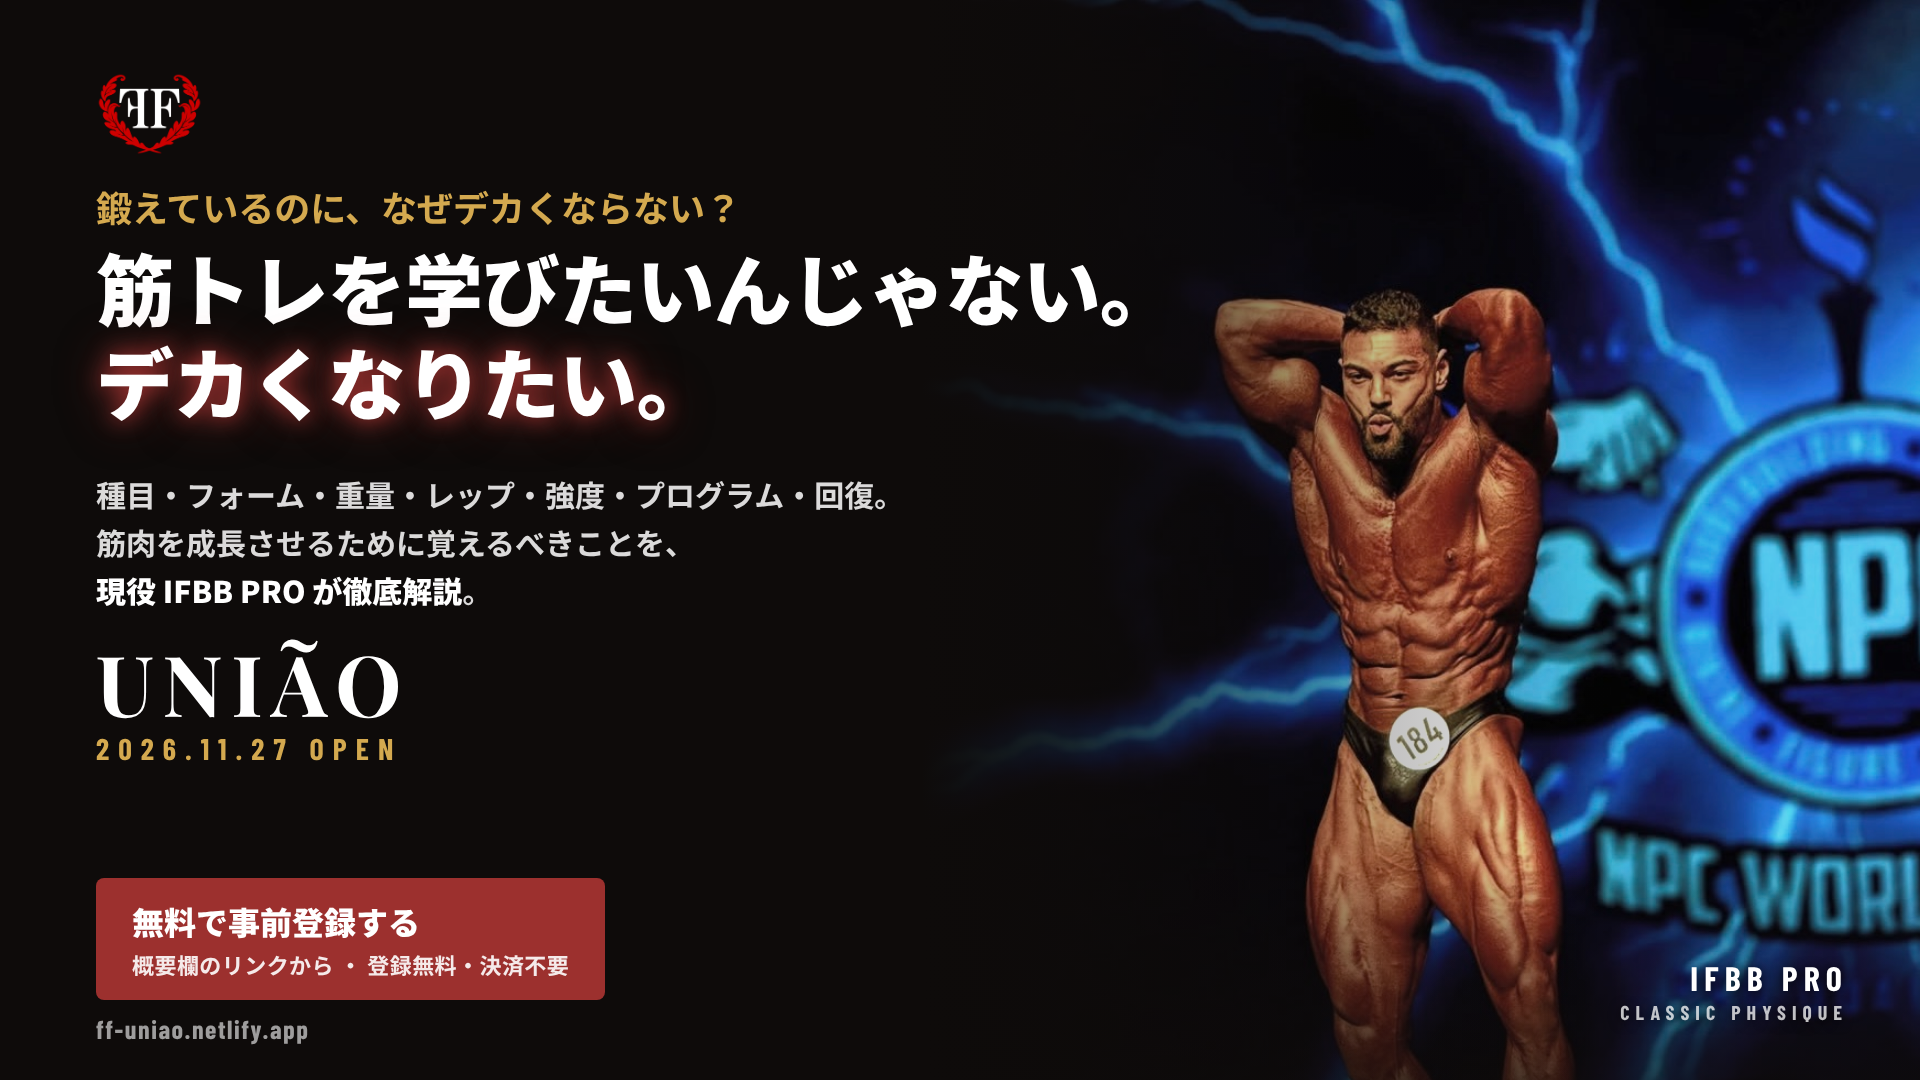
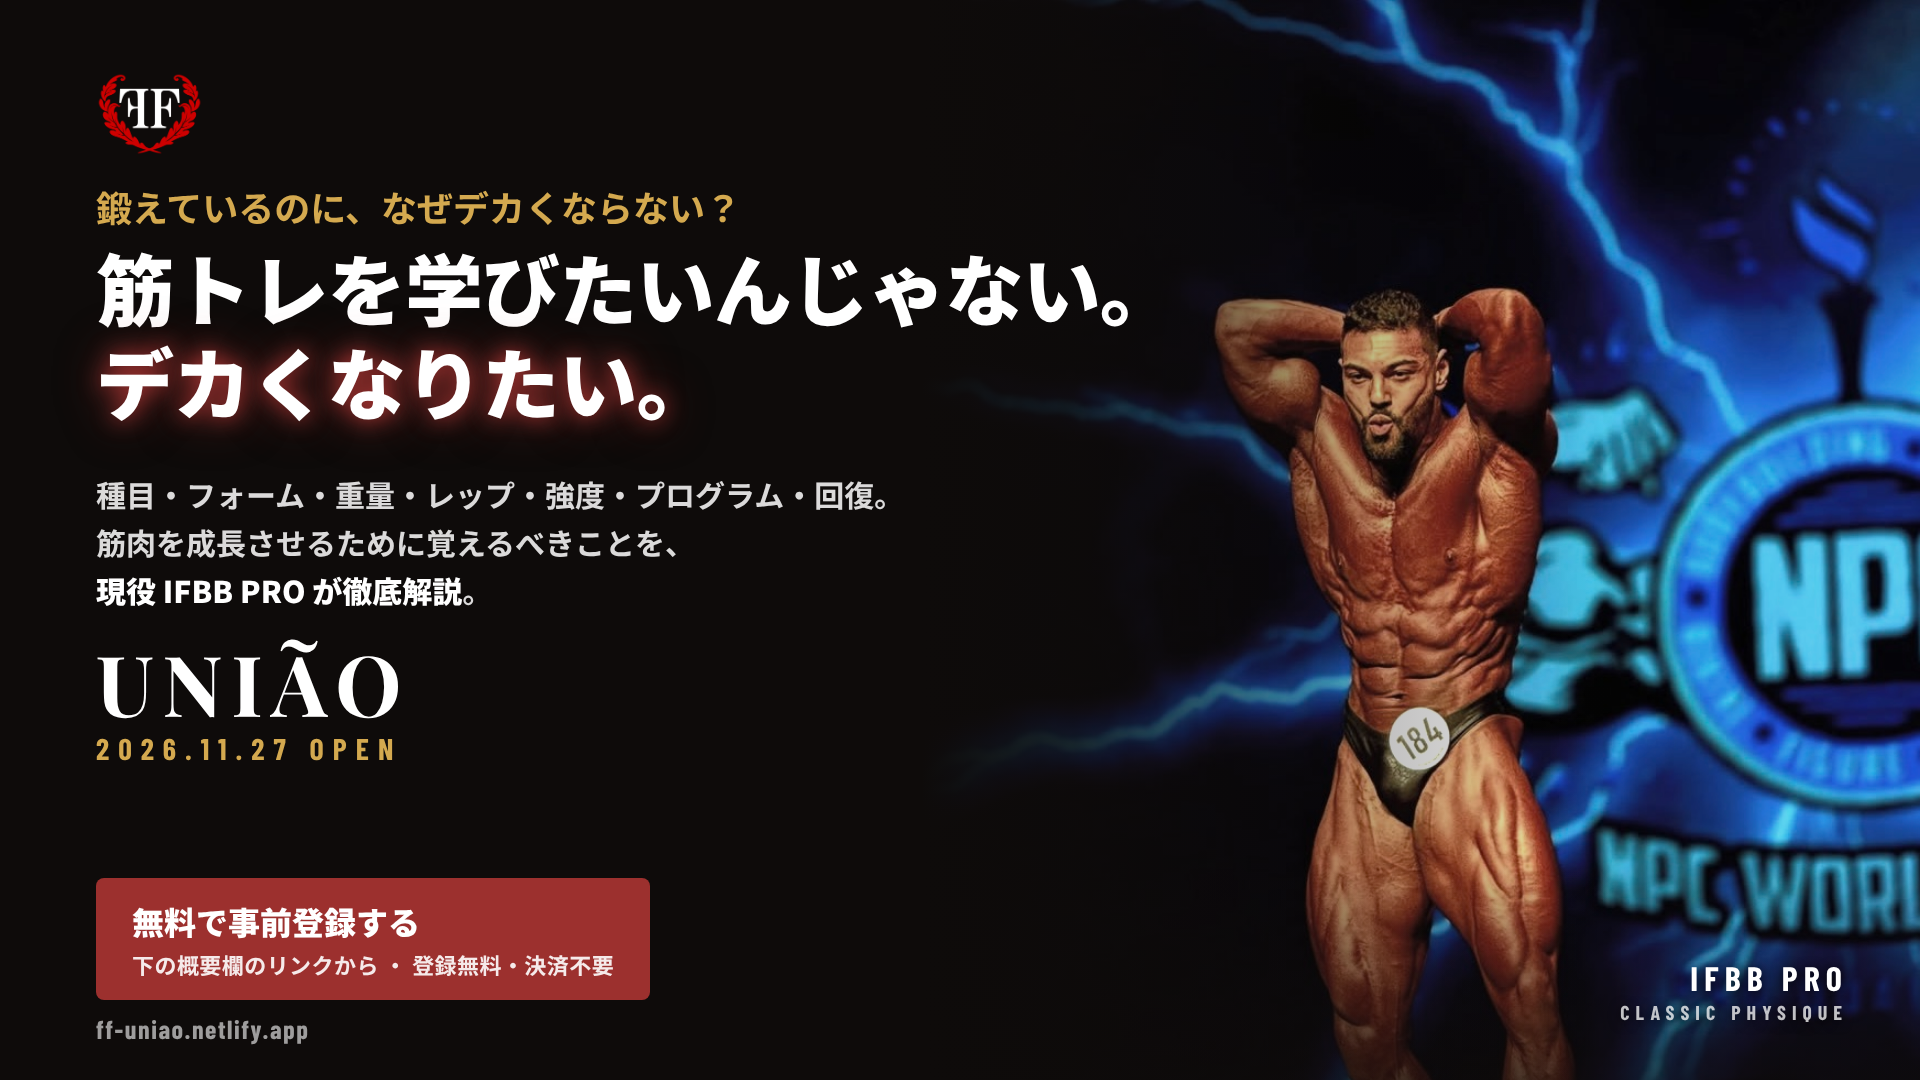
CM slide: 下の概要欄のリンクから (#73)
* Add UPPER DAY YouTube thumbnails (part 1, 2) and the series thumbnail template

Claude-Session: https://claude.ai/code/session_01HRty6kL8VRnpLHHHzSF3iS

* UPPER DAY thumbnails: reframe to keep the face visible and hide the burned-in caption

Claude-Session: https://claude.ai/code/session_01HRty6kL8VRnpLHHHzSF3iS

* UPPER DAY thumbnails v2: loud yellow/red creator style, distinct from the community look

Claude-Session: https://claude.ai/code/session_01HRty6kL8VRnpLHHHzSF3iS

* UPPER DAY thumbnails v3: competition roar photo plus gym face chip

Claude-Session: https://claude.ai/code/session_01HRty6kL8VRnpLHHHzSF3iS

* UPPER DAY thumbnails: soften hook to Felipe's voice

Claude-Session: https://claude.ai/code/session_01HRty6kL8VRnpLHHHzSF3iS

* UPPER DAY thumbnails: keep the hook line on one row

Claude-Session: https://claude.ai/code/session_01HRty6kL8VRnpLHHHzSF3iS

* UPPER DAY thumbnails: hook label on one line

Claude-Session: https://claude.ai/code/session_01HRty6kL8VRnpLHHHzSF3iS

* UPPER DAY thumbnails on the brand guide: FF black base, white type, laurel red as the single accent, gym press photo; add visual identity PDF

Claude-Session: https://claude.ai/code/session_01HRty6kL8VRnpLHHHzSF3iS

* UPPER DAY thumbnail: three promise-led headline variants on the brand template

Claude-Session: https://claude.ai/code/session_01HRty6kL8VRnpLHHHzSF3iS

* Add post-live story images (thanks + next live 11/23) and story template
[…]

Changed region(s): [[0.0625, 0.7944, 0.3438, 0.9472]]

diff --git a/assets/yt/cm-template.html b/assets/yt/cm-template.html
@@ -28,7 +28,7 @@ body{font-family:"NS",sans-serif;color:#fff;position:relative}
 <p class="h">筋トレを学びたいんじゃない。<br><em>デカくなりたい。</em></p>
 <p class="p">種目・フォーム・重量・レップ・強度・プログラム・回復。<br>筋肉を成長させるために覚えるべきことを、<br><b>現役 IFBB PRO が徹底解説</b>。</p>
 <div class="brand"><p class="m">UNIÃO</p><p class="s">2026.11.27 OPEN</p></div>
-<div class="cta">無料で事前登録する<small>概要欄のリンクから ・ 登録無料・決済不要</small></div>
+<div class="cta">無料で事前登録する<small>下の概要欄のリンクから ・ 登録無料・決済不要</small></div>
 <p class="url">ff-uniao.netlify.app</p>
 <p class="pro">IFBB PRO<small>CLASSIC PHYSIQUE</small></p>
 </body></html>
